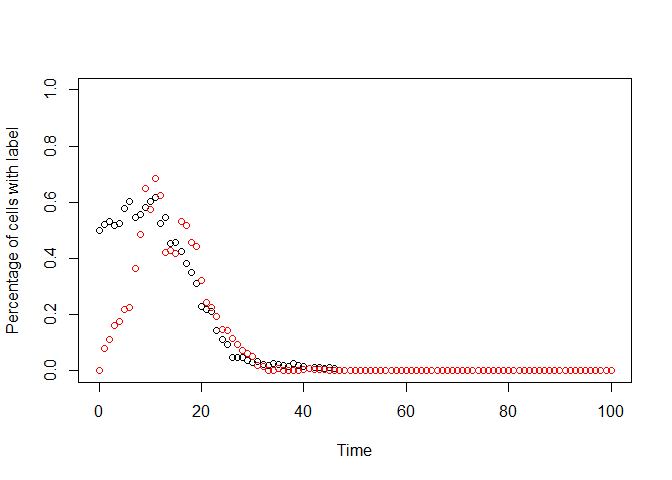
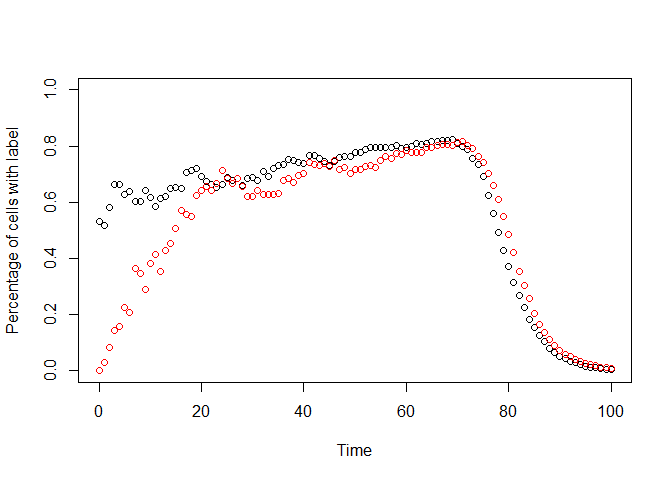
readme

diff --git a/README.md b/README.md
@@ -270,14 +270,14 @@ mut = read.csv(mutfiles[length(mutfiles)])
 head(mut)
 ```
 
-|  mutant|     time| population |   fitness|
-|-------:|--------:|:-----------|---------:|
-|       1|  10.8402| pop1       |  2.092220|
-|       2|  52.8492| pop1       |  1.586430|
-|       3|  78.6540| pop1       |  0.952714|
-|       4|  93.0443| pop1       |  1.980720|
-|       5|  94.5911| pop1       |  1.664160|
-|       6|  96.8391| pop1       |  2.429780|
+|  mutant|      time| population |   fitness|
+|-------:|---------:|:-----------|---------:|
+|       1|   1.09529| pop1       |  0.670037|
+|       2|  58.26980| pop1       |  0.915879|
+|       3|  62.41190| pop1       |  2.165650|
+|       4|  82.25940| pop1       |  3.311310|
+|       5|  82.55860| pop1       |  3.229480|
+|       6|  82.79590| pop1       |  0.548717|
 
 Let us also take a quick look at a census file. We will take a look at the full census of pop1 at the end of the simulation time.
 
@@ -292,10 +292,24 @@ c_pop1 = read.csv(census_pop1_files[length(census_pop1_files)])
 c_pop1[c_pop1$time == max(c_pop1$time),]
 ```
 
-|     |  time|  barcode| mutation    |  fitness|  count|
-|-----|-----:|--------:|:------------|--------:|------:|
-| 52  |   100|       -1| 0&gt;1      |  2.09222|   5462|
-| 53  |   100|       -1| 0&gt;1&gt;6 |  2.42978|      7|
+|     |  time|  barcode| mutation     |  fitness|  count|
+|-----|-----:|--------:|:-------------|--------:|------:|
+| 55  |   100|       -1| 0&gt;3       |  2.16565|  17957|
+| 56  |   100|       -1| 0&gt;3&gt;5  |  3.22948|    287|
+| 57  |   100|        2| 0            |  1.00000|     35|
+| 58  |   100|       -1| 0            |  1.00000|     24|
+| 59  |   100|       59| 0            |  1.00000|     14|
+| 60  |   100|       35| 0            |  1.00000|     11|
+| 61  |   100|        1| 0            |  1.00000|      7|
+| 62  |   100|       92| 0            |  1.00000|      3|
+| 63  |   100|       85| 0            |  1.00000|      3|
+| 64  |   100|       55| 0            |  1.00000|      2|
+| 65  |   100|       75| 0            |  1.00000|      2|
+| 66  |   100|       -1| 0&gt;3&gt;14 |  2.83952|      2|
+| 67  |   100|       -1| 0&gt;3&gt;7  |  2.65473|      2|
+| 68  |   100|       87| 0            |  1.00000|      1|
+| 69  |   100|       64| 0            |  1.00000|      1|
+| 70  |   100|       -1| 0&gt;3&gt;13 |  2.89612|      1|
 
 For more detailed examples, please set the vignettes.
 
